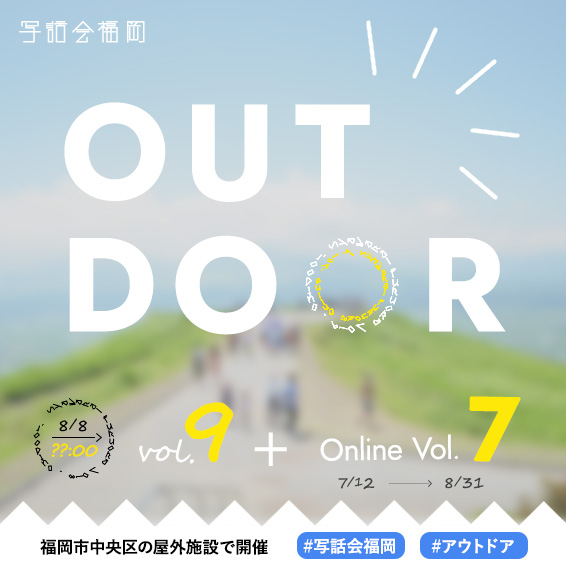
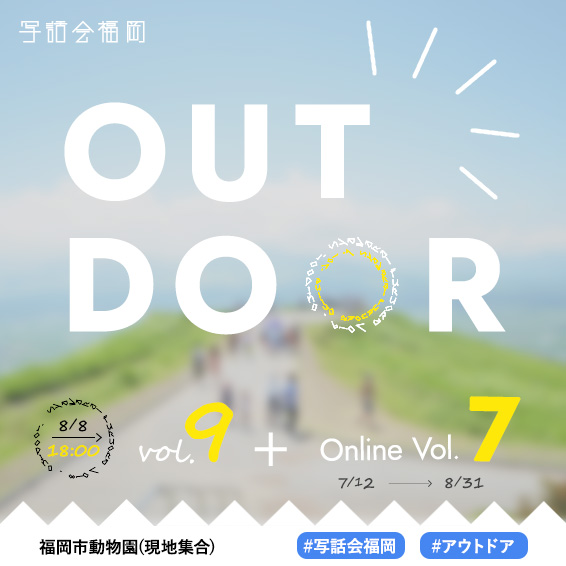
[Add] V2.3.7(update)

Changed region(s): [[0.0601, 0.9311, 0.4806, 0.9912], [0.0901, 0.7809, 0.1802, 0.811]]

diff --git a/index.html b/index.html
@@ -153,7 +153,7 @@
               <div class="content__event-title">
                 <div class="content__event-title__block">
                   <h3>Vol.9 「Outdoor」+ On:Vol.7</h3>
-                  <p><span class="bold">Vol.9</span> 開催日:8/8(土) ※時間は検討中</p>
+                  <p><span class="bold">Vol.9</span> 開催日:8/8(土) 18:00～</p>
                   <p><span class="bold">Vol.7</span> 投稿期間:2020.7.12～8/31</p>
                 </div>
             </fade-in-component>
